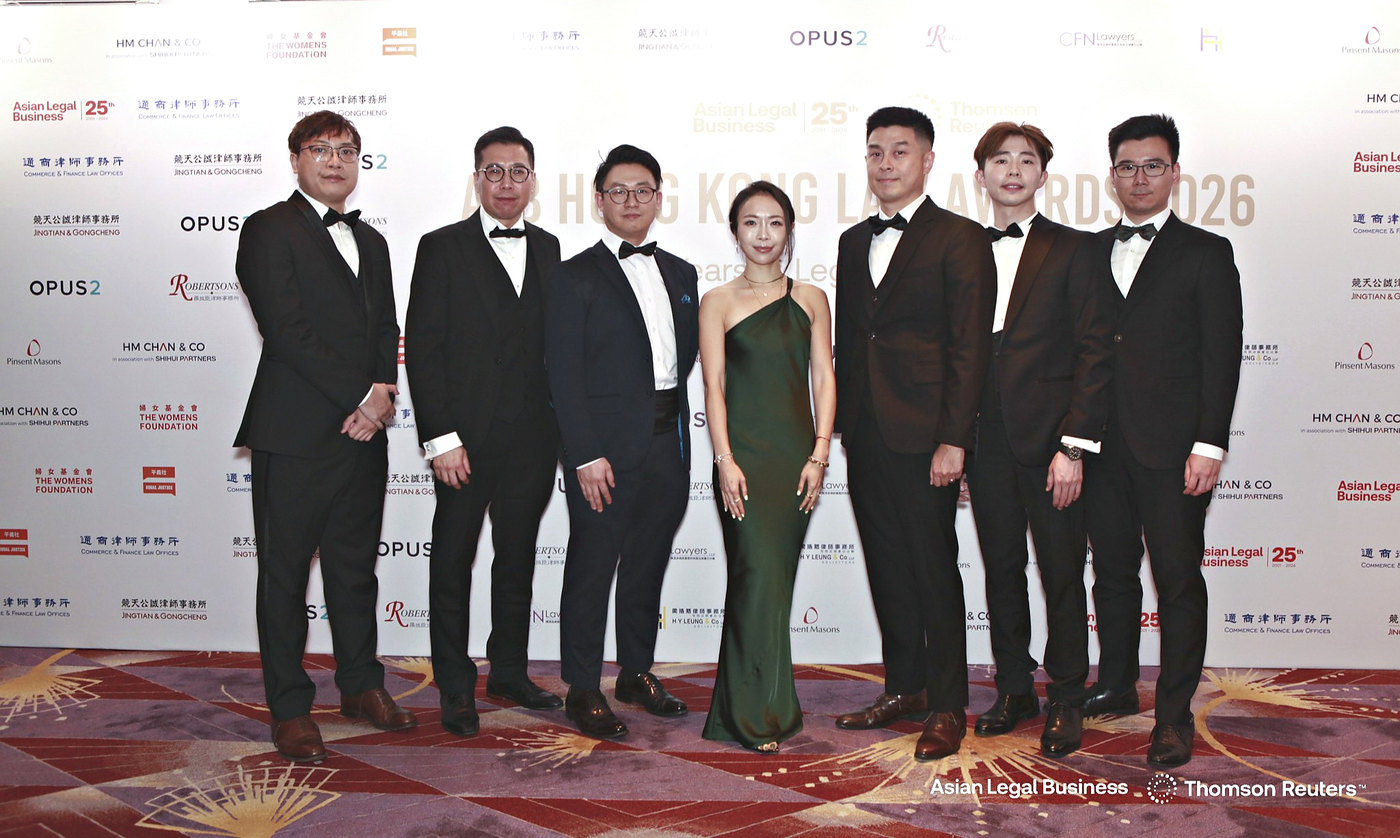
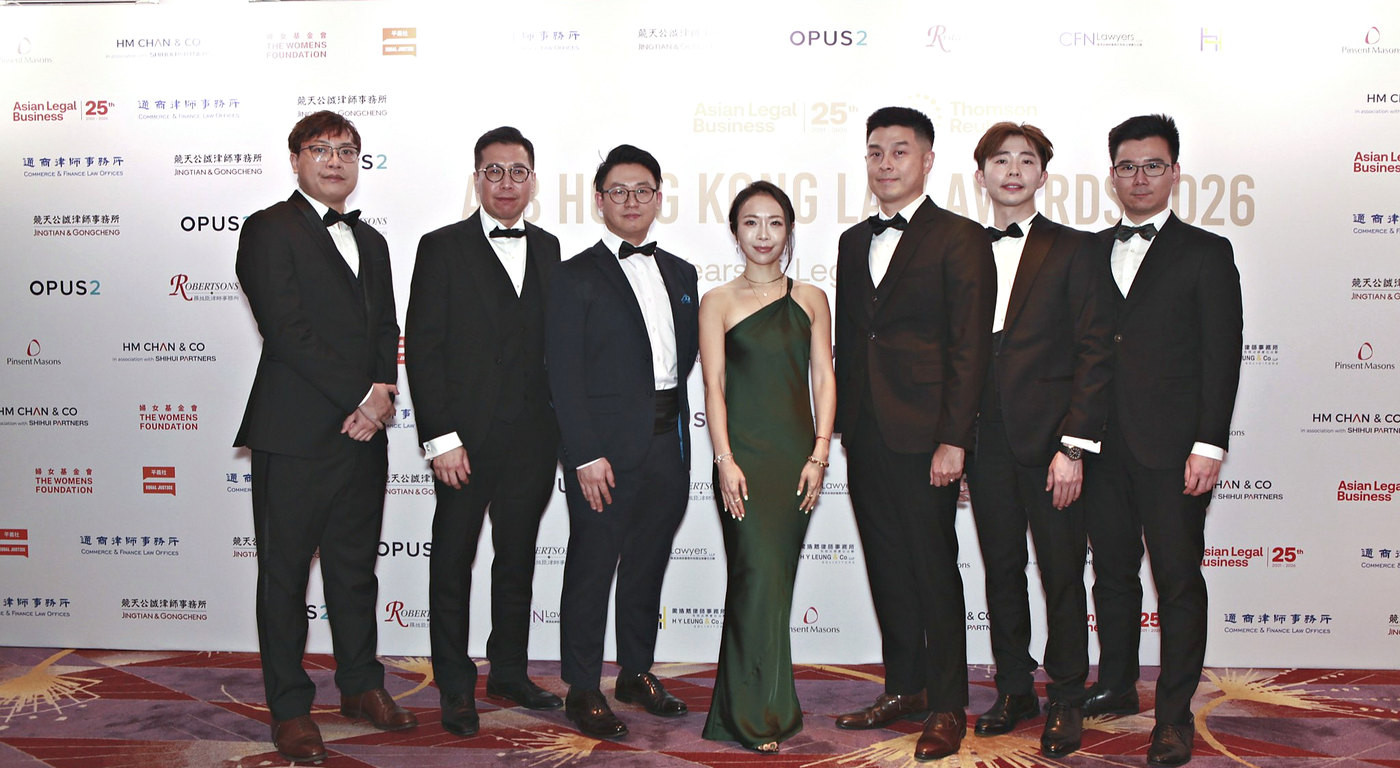
Remove ALB watermark by cropping bottom strip; update image dimensions and restore v4 mirror conventions

diff --git a/index-v4.html b/index-v4.html
@@ -10,11 +10,11 @@
          put the site behind a reverse proxy / CDN to add those HTTP headers. -->
     <meta http-equiv="Content-Security-Policy" content="default-src 'self'; base-uri 'self'; object-src 'none'; script-src 'self'; style-src 'self'; font-src 'self'; img-src 'self' data:; frame-src https://www.google.com; connect-src 'self'; worker-src 'self'; manifest-src 'self'; form-action 'self'; upgrade-insecure-requests">
     <meta name="referrer" content="strict-origin-when-cross-origin">
-    <title>Chan Ching Man &amp; Co. 陳靜文律師行 | Hong Kong Solicitors</title>
+    <title>(v4) Chan Ching Man &amp; Co. 陳靜文律師行 | Hong Kong Solicitors</title>
     <meta name="description" content="Chan Ching Man &amp; Co. is a Hong Kong law firm acting for companies, banks and private clients in arbitration, commercial litigation, fraud and asset recovery and cross-border enforcement, and advising on corporate, compliance and private client matters since 2016. 陳靜文律師行為香港律師行，提供仲裁、爭議解決、公司顧問及私人客戶服務。">
     <meta name="keywords" content="Hong Kong solicitors, law firm, arbitration, Arbitration Ordinance, HKIAC, fraud, asset recovery, cross-border enforcement, civil litigation, criminal litigation, intellectual property, conveyancing, wills, probate, 香港律師, 律師行, 仲裁, 商標代理">
     <meta name="author" content="Chan Ching Man & Co.">
-    <meta name='robots' content='noindex, nofollow'>
+    <meta name="robots" content="noindex, nofollow">
     <link rel="canonical" href="https://www.chanchingman.com/">
 
     <!-- PWA -->
@@ -650,7 +650,7 @@
             <div class="news-more"><span class="en-inline">Read full article</span><span class="cn-inline">閱讀全文</span></div>
             <div class="news-full">
                 <figure class="news-photo">
-                    <img loading="lazy" decoding="async" src="images/news/alb-hk-law-awards-2026.jpg?v=2" width="1400" height="838" alt="The CCM team at the ALB Hong Kong Law Awards 2026, Finalist for Rising Law Firm of the Year / 陳靜文律師行團隊出席 2026 年度 ALB 香港法律大獎「年度最佳新晉律師行」入圍決賽">
+                    <img loading="lazy" decoding="async" src="images/news/alb-hk-law-awards-2026.jpg?v=3" width="1400" height="768" alt="The CCM team at the ALB Hong Kong Law Awards 2026, Finalist for Rising Law Firm of the Year / 陳靜文律師行團隊出席 2026 年度 ALB 香港法律大獎「年度最佳新晉律師行」入圍決賽">
                     <figcaption><span class="en-inline">ALB Hong Kong Law Awards 2026</span><span class="cn-inline">2026 年度 ALB 香港法律大獎</span></figcaption>
                 </figure>
                 <div class="en">

diff --git a/index.html b/index.html
@@ -650,7 +650,7 @@
             <div class="news-more"><span class="en-inline">Read full article</span><span class="cn-inline">閱讀全文</span></div>
             <div class="news-full">
                 <figure class="news-photo">
-                    <img loading="lazy" decoding="async" src="images/news/alb-hk-law-awards-2026.jpg?v=2" width="1400" height="838" alt="The CCM team at the ALB Hong Kong Law Awards 2026, Finalist for Rising Law Firm of the Year / 陳靜文律師行團隊出席 2026 年度 ALB 香港法律大獎「年度最佳新晉律師行」入圍決賽">
+                    <img loading="lazy" decoding="async" src="images/news/alb-hk-law-awards-2026.jpg?v=3" width="1400" height="768" alt="The CCM team at the ALB Hong Kong Law Awards 2026, Finalist for Rising Law Firm of the Year / 陳靜文律師行團隊出席 2026 年度 ALB 香港法律大獎「年度最佳新晉律師行」入圍決賽">
                     <figcaption><span class="en-inline">ALB Hong Kong Law Awards 2026</span><span class="cn-inline">2026 年度 ALB 香港法律大獎</span></figcaption>
                 </figure>
                 <div class="en">

diff --git a/sw.js b/sw.js
@@ -4,7 +4,7 @@
  * is not the current CACHE, and skipWaiting()/clients.claim() make the new
  * worker take over promptly so users do not get stuck on a stale version.
  */
-const CACHE = 'ccm-v4-20261112h';
+const CACHE = 'ccm-v4-20261113a';
 const ASSETS = [
   './',
   './index.html',
